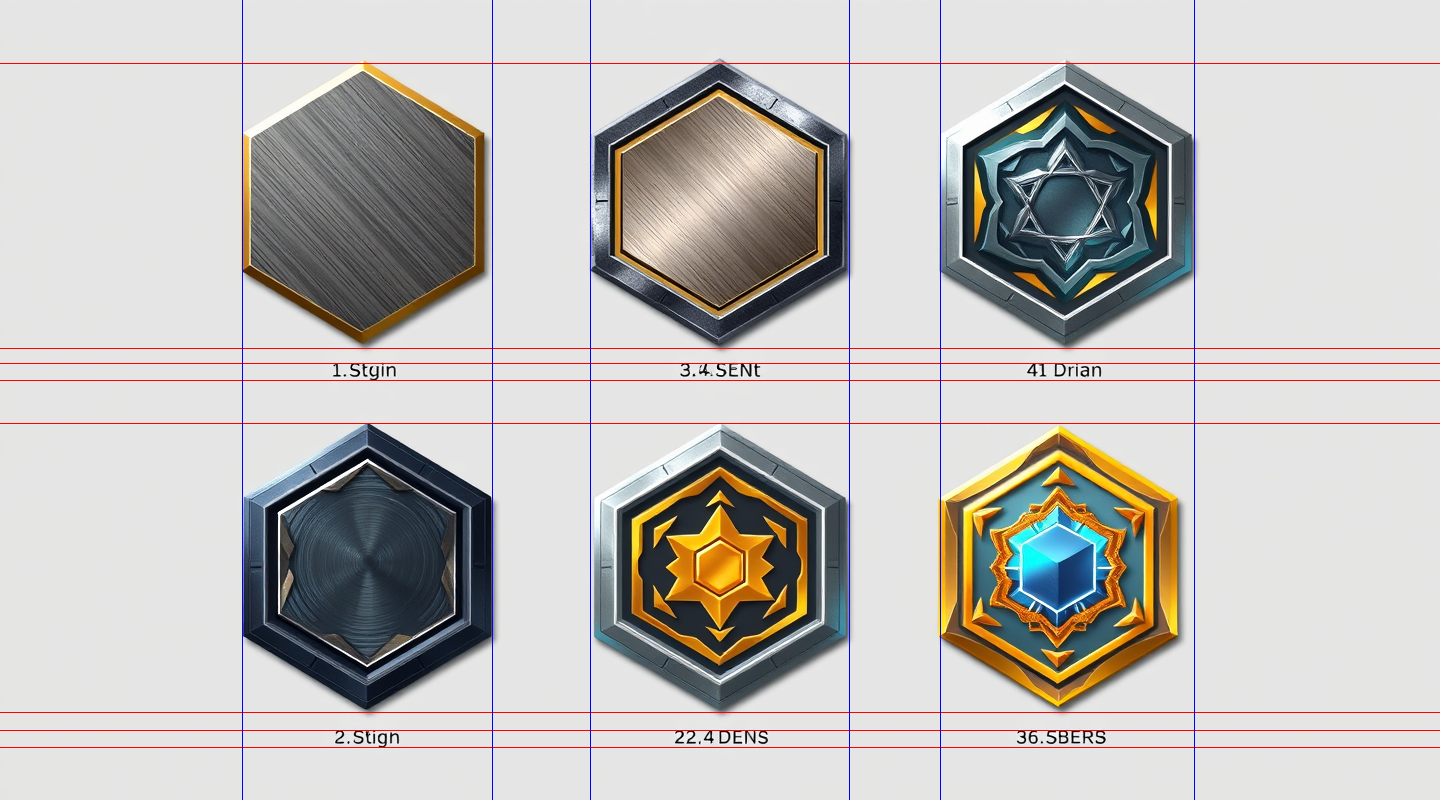
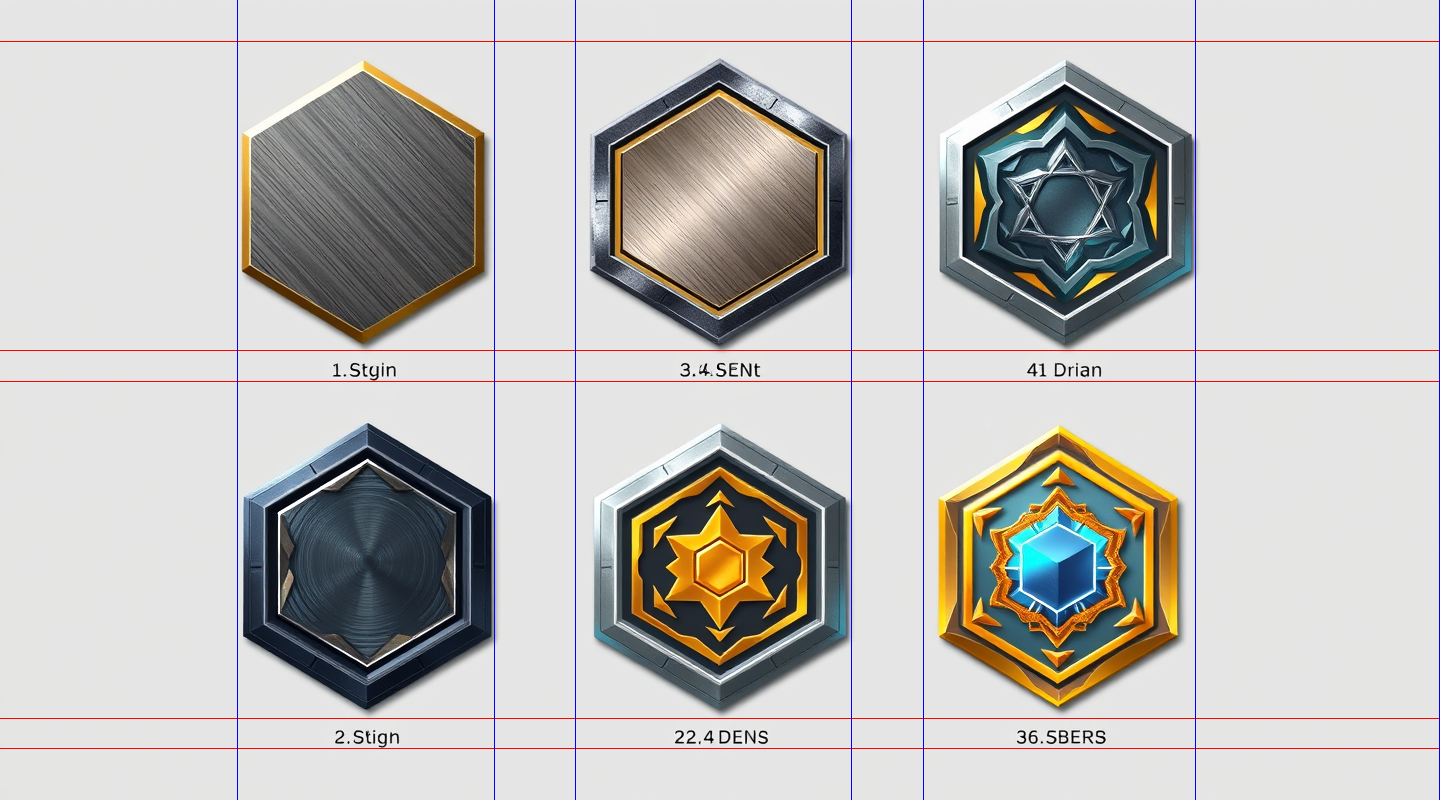
feat: local threshold

diff --git a/src/main.rs b/src/main.rs
@@ -1,5 +1,5 @@
 use image::*;
-use imageproc::drawing::draw_line_segment_mut;
+use imageproc::{contrast::adaptive_threshold, drawing::draw_line_segment_mut};
 
 /// Represents the kind of a line (row or column).
 ///
@@ -107,16 +107,22 @@ fn is_column_empty(img: &GrayImage, x: u32, height: u32) -> bool {
 
 /// Processes lines (rows or columns) and groups them by their [`LineKind`].
 ///
-/// This function is generic over [`LineTrait`] and can process both [`Row`]s and [`Column`]s.
+/// This function merges adjacent lines of the same kind and ignores lines smaller than a minimum size.
 ///
 /// # Arguments
 /// * `img` - The grayscale image to process.
 /// * `length` - The length of the lines (height for rows, width for columns).
 /// * `is_empty` - A function to check if a line is empty.
+/// * `min_size` - The minimum size (height/width) for a line to be included.
 ///
 /// # Returns
 /// A vector of lines grouped by their [`LineKind`].
-fn process_lines<T>(img: &GrayImage, length: u32, is_empty: impl Fn(u32) -> bool) -> Vec<T>
+fn process_lines<T>(
+    img: &GrayImage,
+    length: u32,
+    is_empty: impl Fn(u32) -> bool,
+    min_size: u32,
+) -> Vec<T>
 where
     T: LineTrait,
 {
@@ -138,21 +144,26 @@ where
         if new_kind == current_kind {
             current_length += 1;
         } else {
-            lines.push(T::new(current_start, current_length, current_kind));
+            // Only add the line if it meets the minimum size requirement
+            if current_length >= min_size {
+                lines.push(T::new(current_start, current_length, current_kind));
+            }
             current_start = i;
             current_kind = new_kind;
             current_length = 1;
         }
     }
-    // Push the last line
-    lines.push(T::new(current_start, current_length, current_kind));
+    // Push the last line if it meets the minimum size requirement
+    if current_length >= min_size {
+        lines.push(T::new(current_start, current_length, current_kind));
+    }
     lines
 }
 
 /// Processes the image and generates the [`Grid`].
 ///
-/// This function converts the image to grayscale, binarizes it, and processes it to generate
-/// the [`Grid`] of [`Row`]s and [`Column`]s.
+/// This function converts the image to grayscale, applies adaptive thresholding,
+/// and processes it to generate the [`Grid`] of [`Row`]s and [`Column`]s.
 ///
 /// # Arguments
 /// * `image` - The input image to process.
@@ -161,31 +172,56 @@ where
 /// A [`Grid`] representing the rows and columns of the image.
 fn process_image(image: DynamicImage) -> Grid {
     // Convert the image to grayscale
-    let img = image.into_luma8();
-    let (width, height) = img.dimensions();
+    let img = image.to_luma8();
 
-    // Binarize the image using a threshold of 128
-    let binarized_img = ImageBuffer::from_vec(
-        width,
+    // Apply adaptive thresholding
+    let binarized_img = adaptive_threshold(&img, 12); // 5x5 neighborhood
+
+    // Process rows and columns with a minimum size threshold
+    let (width, height) = binarized_img.dimensions();
+    let min_size = 12; // Minimum height/width for a row/column to be included
+    let rows = process_lines(
+        &binarized_img,
         height,
-        img.into_iter()
-            .map(|p| if p >= &128 { 255u8 } else { 0u8 })
-            .collect(),
-    )
-    .unwrap();
-
-    // Process rows
-    let rows = process_lines(&binarized_img, height, |y| {
-        is_row_empty(&binarized_img, y, width)
-    });
-
-    // Process columns
-    let columns = process_lines(&binarized_img, width, |x| {
-        is_column_empty(&binarized_img, x, height)
-    });
+        |y| is_row_empty(&binarized_img, y, width),
+        min_size,
+    );
+    let columns = process_lines(
+        &binarized_img,
+        width,
+        |x| is_column_empty(&binarized_img, x, height),
+        min_size,
+    );
 
     // Create the Grid
     Grid { rows, columns }
+}
+
+/// Calculates the local threshold for a pixel based on its neighborhood.
+///
+/// # Arguments
+/// * `img` - The grayscale image.
+/// * `x` - The x-coordinate of the pixel.
+/// * `y` - The y-coordinate of the pixel.
+/// * `radius` - The radius of the neighborhood (e.g., 5 for a 5x5 neighborhood).
+///
+/// # Returns
+/// The local threshold value.
+fn calculate_local_threshold(img: &GrayImage, x: u32, y: u32, radius: u32) -> u8 {
+    let mut sum = 0;
+    let mut count = 0;
+
+    for i in x.saturating_sub(radius)..=x.saturating_add(radius) {
+        for j in y.saturating_sub(radius)..=y.saturating_add(radius) {
+            if i < img.width() && j < img.height() {
+                sum += img.get_pixel(i, j).0[0] as u32;
+                count += 1;
+            }
+        }
+    }
+
+    // Use the mean of the neighborhood as the threshold
+    (sum / count) as u8
 }
 
 /// Debug module for visualizing the grid on the image.
